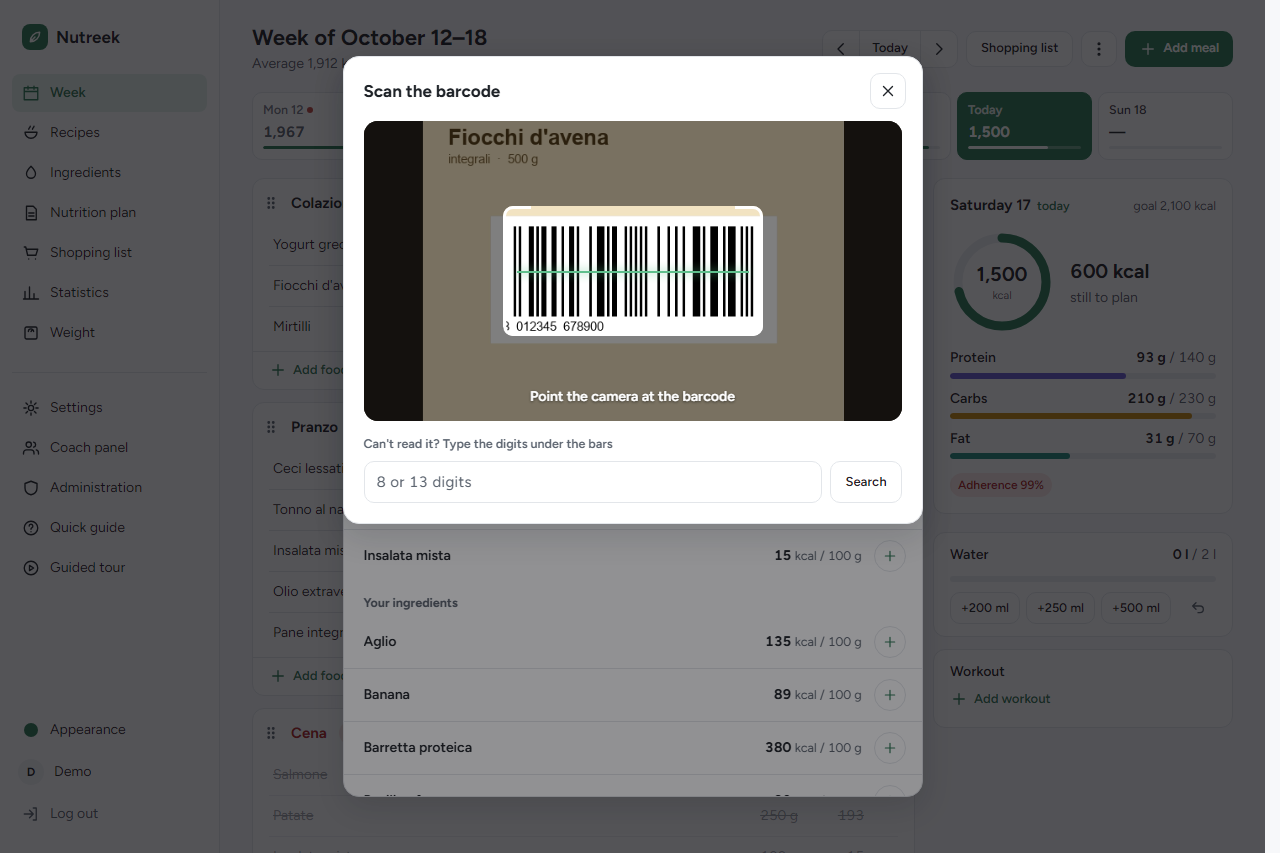
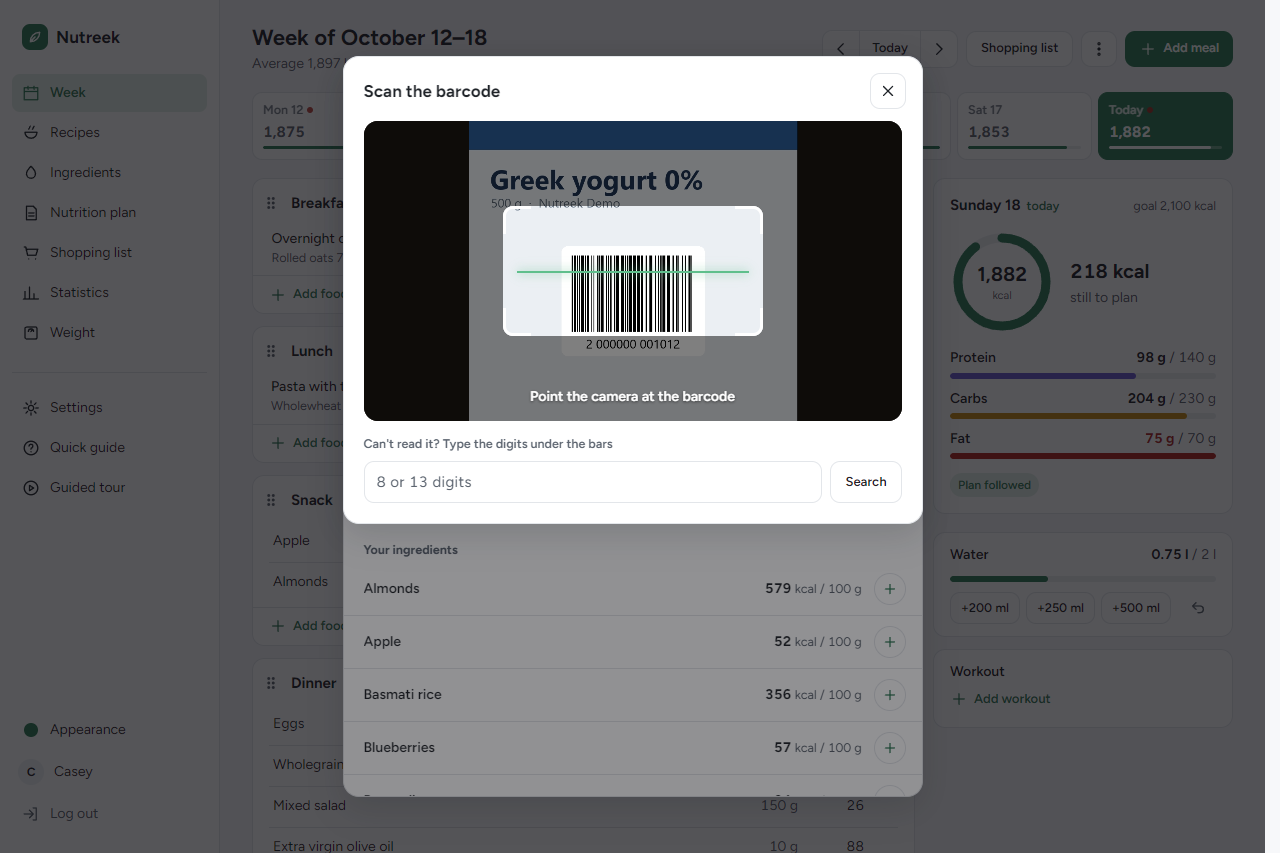
docs(readme): retake the screenshots from the demo seed
The English README screenshots and the public home's English image
showed Italian foods and meals. Every one is retaken from the demo:
English data in the English ones, Italian in the Italian ones. The
admin panel, absent from the demo, keeps its screenshots.

Part of #189

diff --git a/CHANGELOG.md b/CHANGELOG.md
@@ -41,6 +41,7 @@ The entries up to 2.0.0 link to issues and pull requests written in Italian: the
 ### Changed
 - The REST API v1 error messages are in English, whatever the user's language (#159)
 - The code, docs, commits, issues and pull requests are in English, this CHANGELOG included; the app itself is still in Italian (#146)
+- The README screenshots and the public home's product image come from the demo seed (#189, part of #137): English food and meal names in the English ones, Italian in the Italian ones. On the way, the demo gives every account an active weekly template, so its nutrition plan is no longer empty, and shows the OpenFoodFacts demo products of the visitor's language only (a barcode typed in still finds the others)
 
 ---
 

diff --git a/README.md b/README.md
@@ -60,7 +60,7 @@ The interface is in **English** and **Italian**. Each user picks the language in
 
 ## Screenshots
 
-Demo data, with the interface in English (the demo foods and meals are Italian). The same look in light and dark, on desktop and on the phone. The Italian README shows the Italian interface.
+The demo's data, in English. The same look in light and dark, on desktop and on the phone. The Italian README shows the Italian interface.
 
 ### The week
 

diff --git a/README.it.md b/README.it.md
@@ -60,7 +60,7 @@ L'interfaccia è in **italiano** e in **inglese**. Ogni utente sceglie la lingua
 
 ## Screenshot
 
-Dati demo. Lo stesso aspetto in chiaro e in scuro, su desktop e sul telefono. Il README in inglese mostra l'interfaccia in inglese.
+I dati della demo, in italiano. Lo stesso aspetto in chiaro e in scuro, su desktop e sul telefono. Il README in inglese mostra l'interfaccia in inglese.
 
 ### La settimana
 
